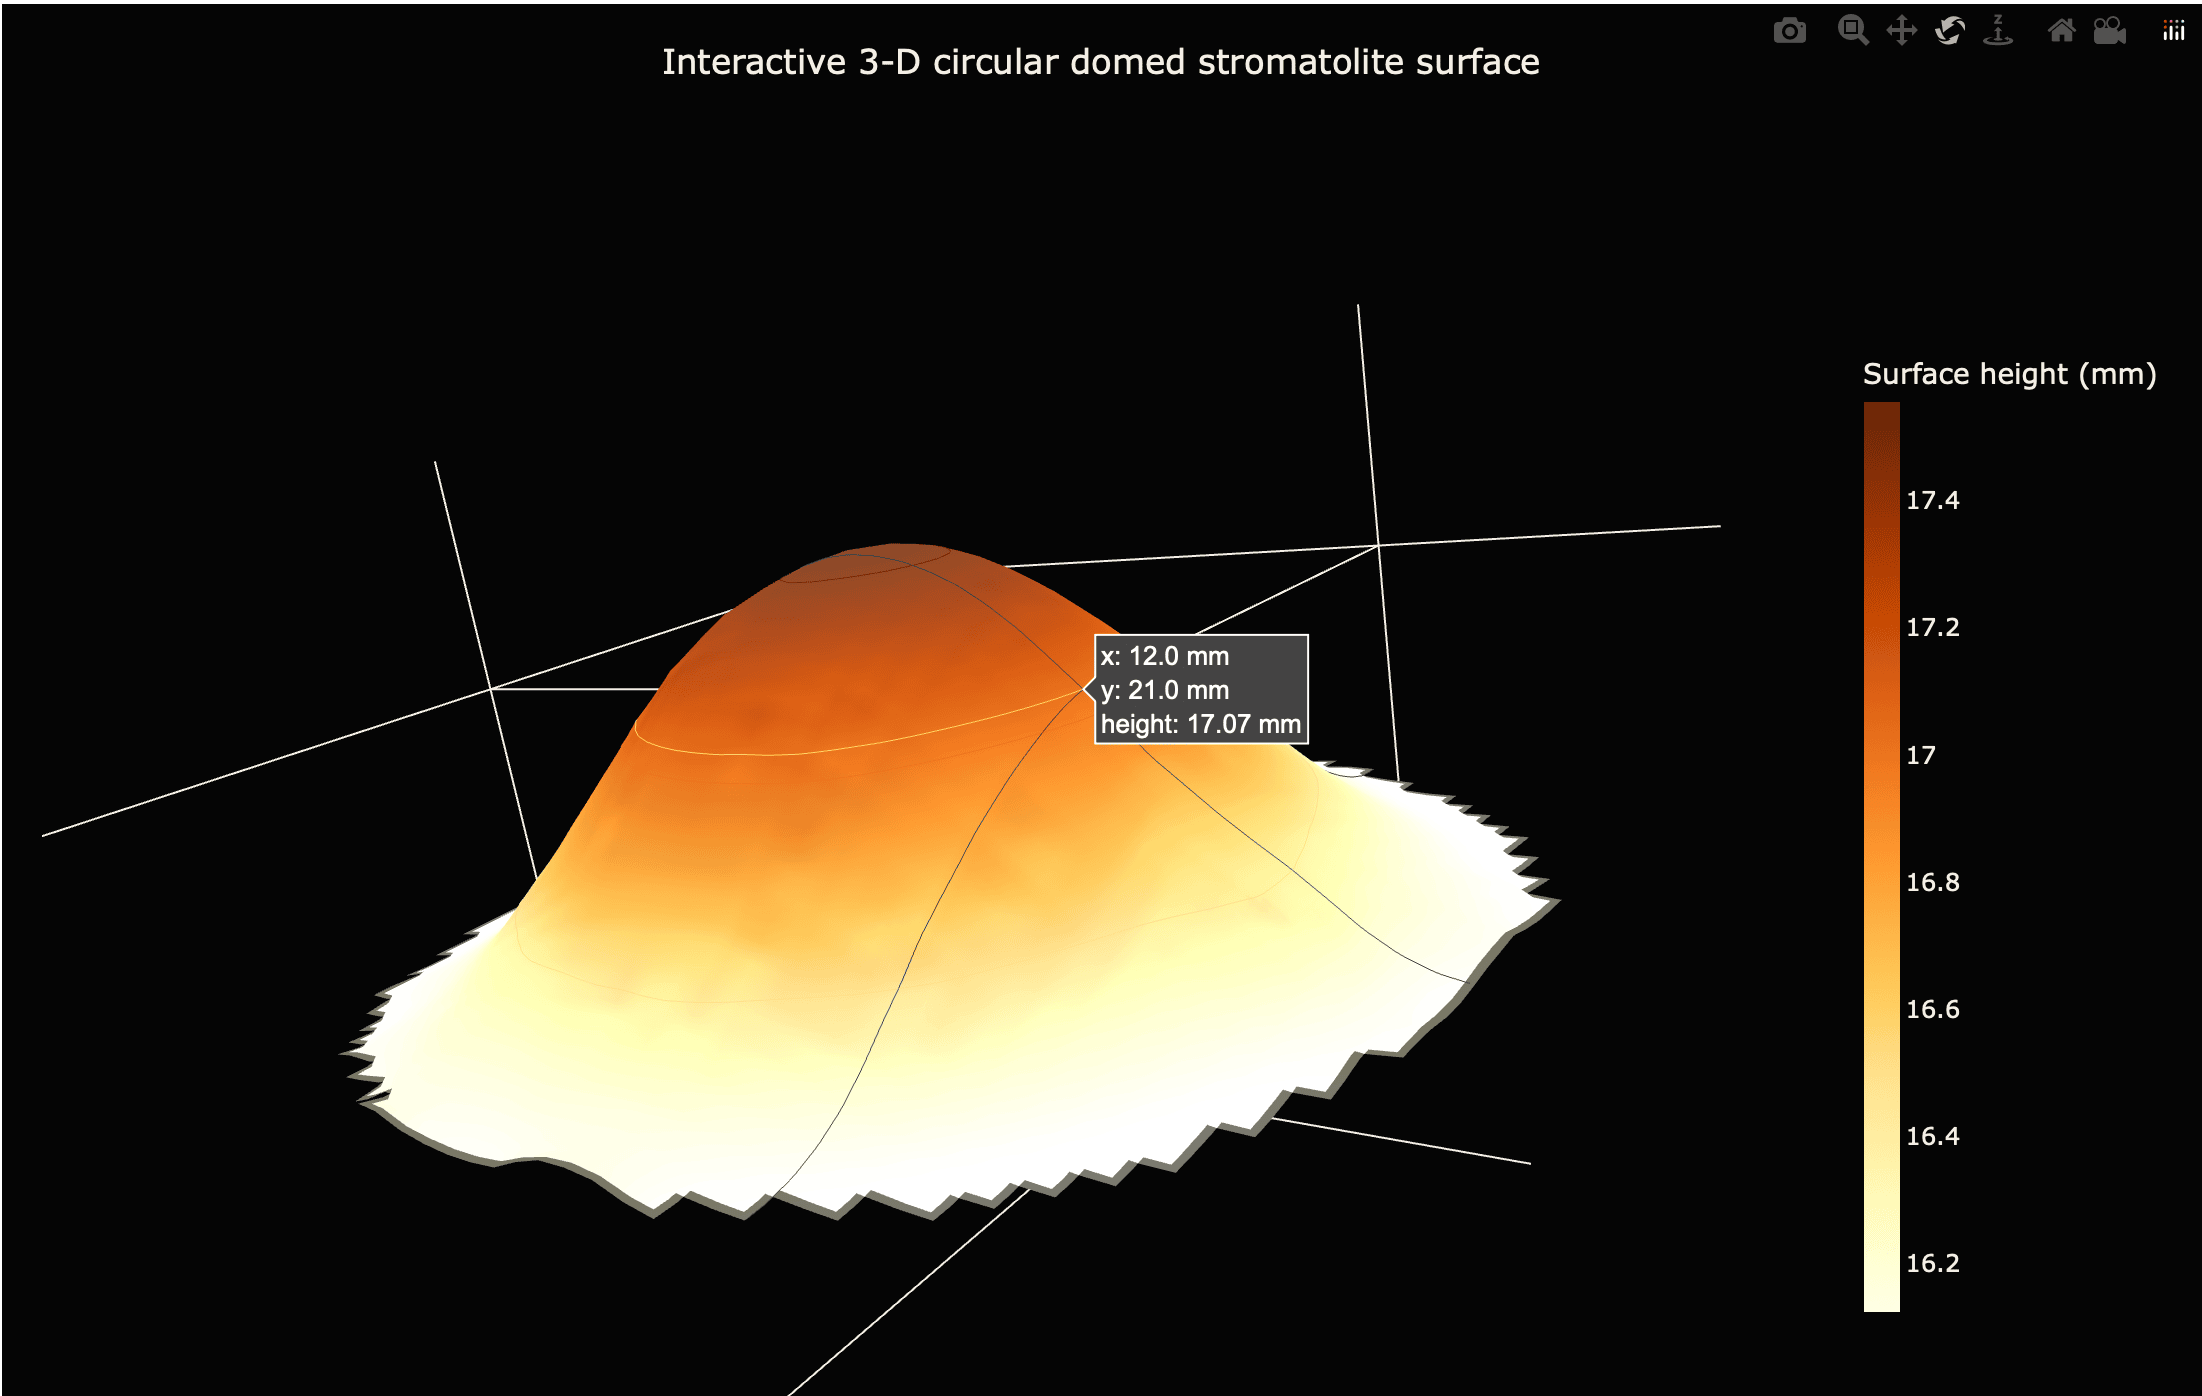
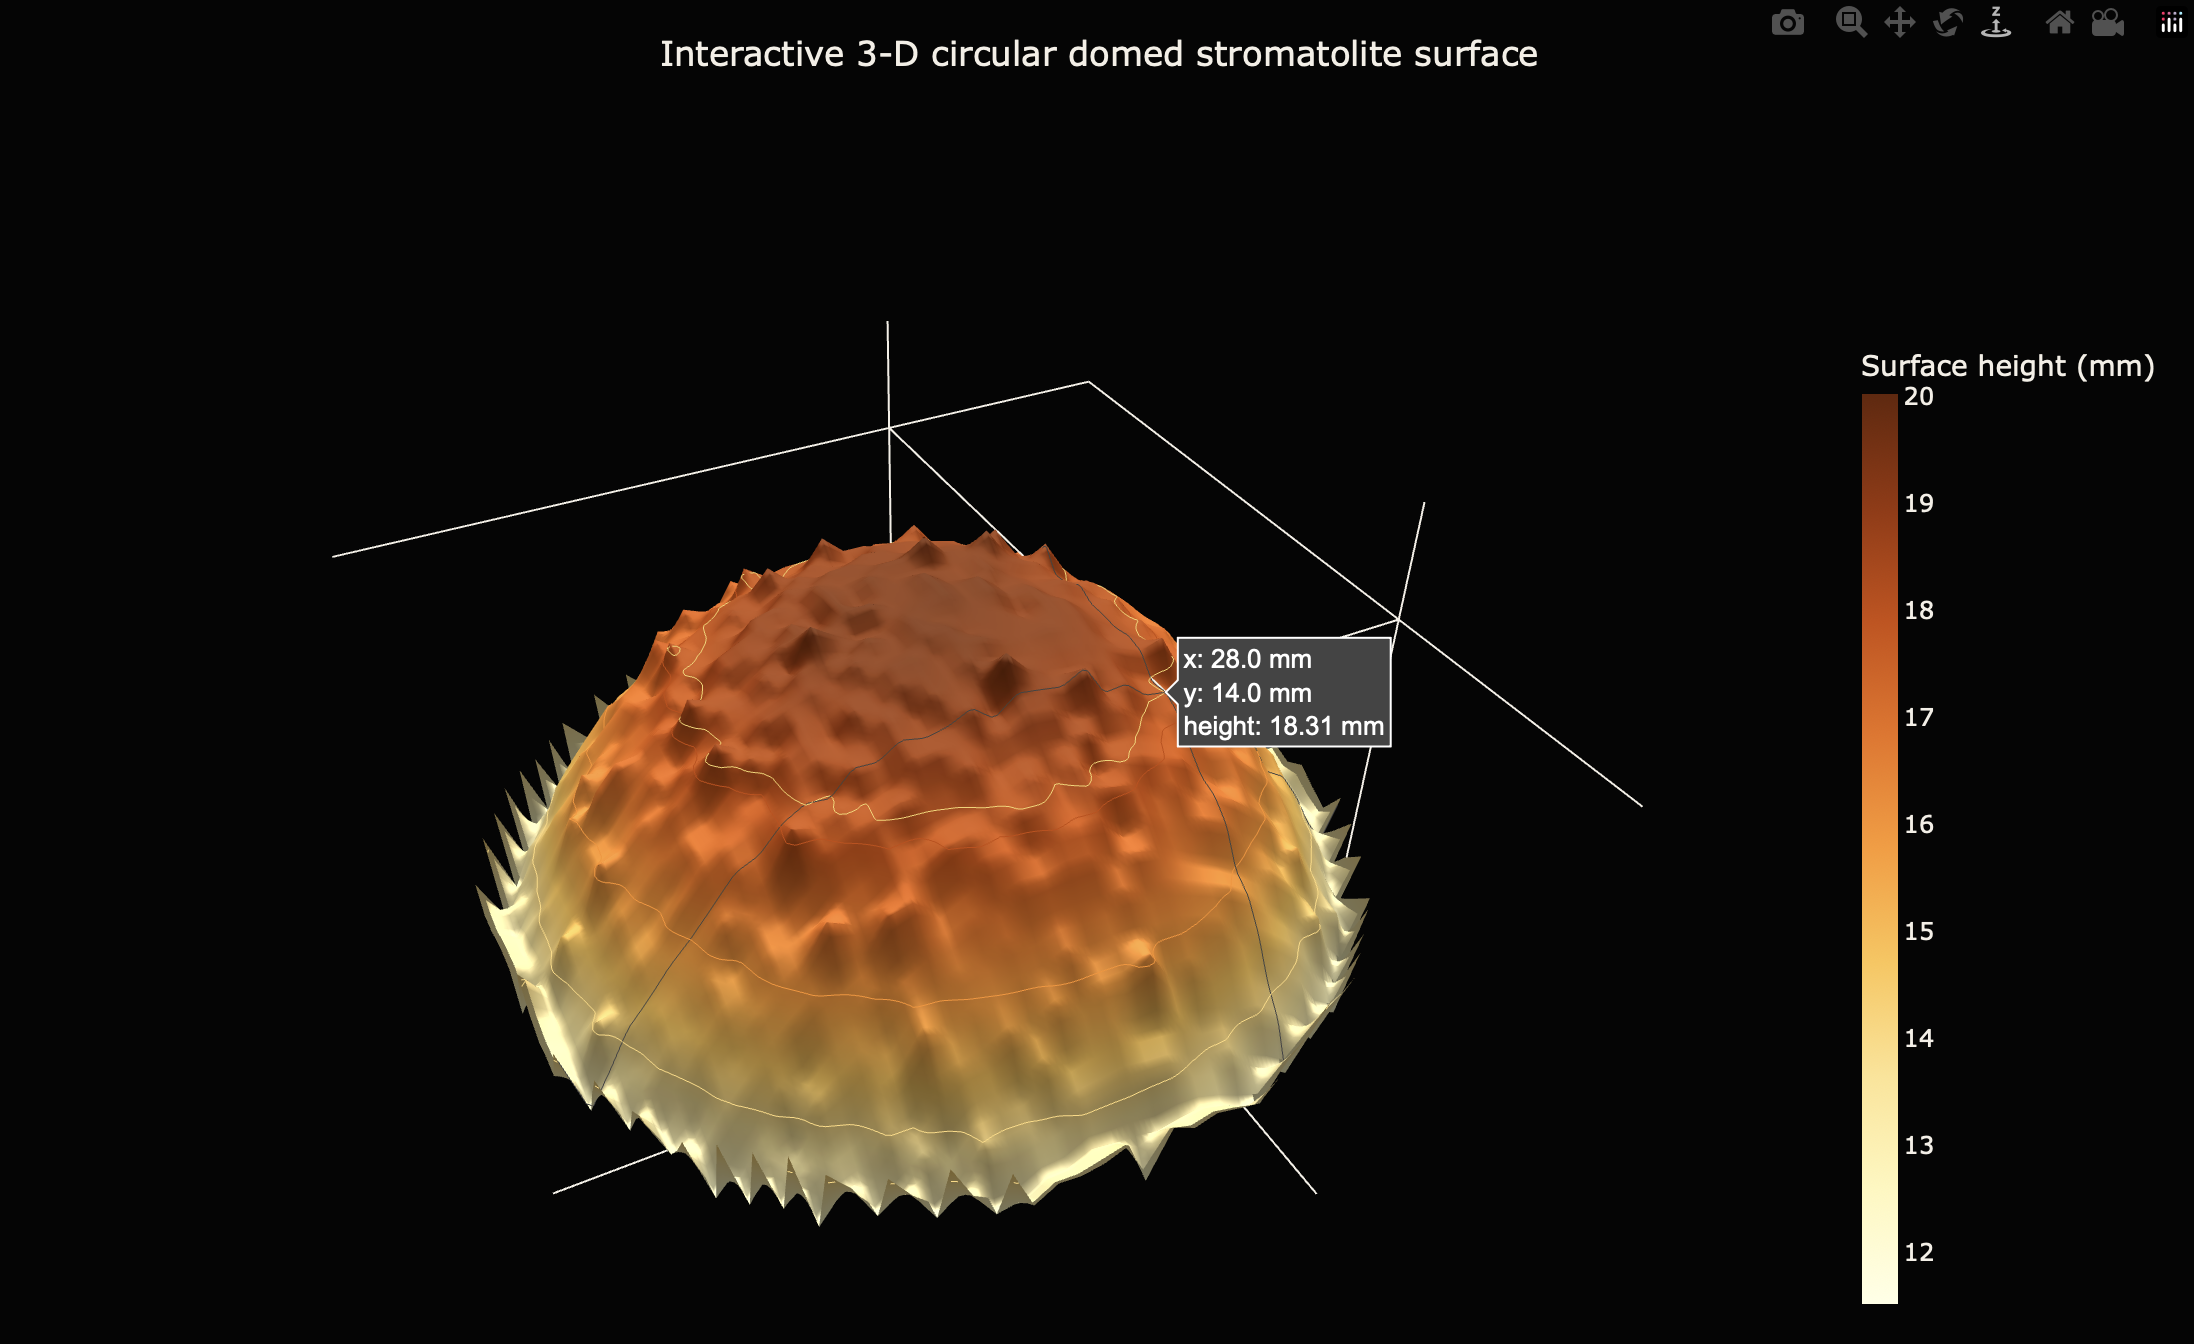
Added layer extraction and make interactive render use the extracted file

diff --git a/scripts/build-layer-surfaces.py b/scripts/build-layer-surfaces.py
@@ -1,0 +1,174 @@
+#!/usr/bin/env python
+"""Build compact browser-ready layer surfaces from stratigraphy NPZ output."""
+
+from __future__ import annotations
+
+import argparse
+from pathlib import Path
+
+import numpy as np
+
+
+def require_array(archive: np.lib.npyio.NpzFile, key: str, input_path: Path) -> np.ndarray:
+    """Return a required array or raise a clear format error."""
+    if key not in archive.files:
+        raise ValueError(f"{input_path} is missing required array: {key}")
+    return archive[key]
+
+
+def spatial_coordinates(spatial_shape: tuple[int, ...]) -> dict[str, np.ndarray]:
+    """Create index-based millimetre coordinates for the model grid."""
+    if len(spatial_shape) == 1:
+        return {"x_mm": np.arange(spatial_shape[0], dtype=np.float32)}
+    if len(spatial_shape) == 2:
+        y_size, x_size = spatial_shape
+        return {
+            "x_mm": np.arange(x_size, dtype=np.float32),
+            "y_mm": np.arange(y_size, dtype=np.float32),
+        }
+    raise ValueError(
+        "Only 2-D cross-section arrays (time, x) and 3-D surface arrays "
+        "(time, y, x) are supported."
+    )
+
+
+def layer_ids_from(layer_id: np.ndarray) -> np.ndarray:
+    """Return sorted non-negative layer IDs present in the stratigraphy archive."""
+    finite_layer_id = layer_id[np.isfinite(layer_id)] if np.issubdtype(layer_id.dtype, np.floating) else layer_id
+    unique_layer_ids = np.unique(finite_layer_id)
+    return unique_layer_ids[unique_layer_ids >= 0].astype(np.int16)
+
+
+def layer_step_bounds(layer_id: np.ndarray, layer_ids: np.ndarray) -> tuple[np.ndarray, np.ndarray]:
+    """Find the first and last timestep where each layer ID appears."""
+    start_steps = np.full(layer_ids.shape, -1, dtype=np.int32)
+    end_steps = np.full(layer_ids.shape, -1, dtype=np.int32)
+
+    for index, current_layer_id in enumerate(layer_ids):
+        timestep_matches = np.any(layer_id == current_layer_id, axis=tuple(range(1, layer_id.ndim)))
+        matching_steps = np.flatnonzero(timestep_matches)
+        if matching_steps.size:
+            start_steps[index] = int(matching_steps[0])
+            end_steps[index] = int(matching_steps[-1])
+
+    return start_steps, end_steps
+
+
+def build_layer_surfaces(input_path: Path) -> dict[str, np.ndarray]:
+    """Convert timestep stratigraphy into compact per-layer browser surfaces."""
+    with np.load(input_path) as archive:
+        deposition = require_array(archive, "deposition_increment_mm", input_path)
+        layer_id = require_array(archive, "layer_id", input_path)
+
+        if deposition.shape != layer_id.shape:
+            raise ValueError(
+                "deposition_increment_mm and layer_id must have the same shape; "
+                f"got {deposition.shape} and {layer_id.shape}."
+            )
+        if deposition.ndim not in (2, 3):
+            raise ValueError(
+                "Expected deposition_increment_mm shape (time, x) or (time, y, x); "
+                f"got {deposition.shape}."
+            )
+
+        spatial_shape = deposition.shape[1:]
+        layer_ids = layer_ids_from(layer_id)
+        if layer_ids.size == 0:
+            raise ValueError(f"{input_path} does not contain any non-negative layer IDs.")
+
+        if "active_mask" in archive.files:
+            active_mask = archive["active_mask"].astype(bool)
+            if active_mask.shape != spatial_shape:
+                raise ValueError(
+                    f"active_mask shape {active_mask.shape} does not match spatial shape {spatial_shape}."
+                )
+        else:
+            active_mask = np.ones(spatial_shape, dtype=bool)
+
+        if "initial_dome_height_mm" in archive.files:
+            base_height = archive["initial_dome_height_mm"].astype(np.float32)
+            if base_height.shape != spatial_shape:
+                raise ValueError(
+                    "initial_dome_height_mm shape "
+                    f"{base_height.shape} does not match spatial shape {spatial_shape}."
+                )
+        else:
+            base_height = np.zeros(spatial_shape, dtype=np.float32)
+
+        layer_thicknesses = []
+        cumulative_thicknesses = []
+        cumulative_thickness = np.zeros(spatial_shape, dtype=np.float32)
+
+        for current_layer_id in layer_ids:
+            layer_deposition = np.where(layer_id == current_layer_id, deposition, 0.0)
+            layer_thickness = np.sum(layer_deposition, axis=0, dtype=np.float32)
+            cumulative_thickness = cumulative_thickness + layer_thickness
+
+            layer_thickness = layer_thickness.astype(np.float32)
+            layer_thickness[~active_mask] = np.nan
+            cumulative_snapshot = cumulative_thickness.astype(np.float32).copy()
+            cumulative_snapshot[~active_mask] = np.nan
+
+            layer_thicknesses.append(layer_thickness)
+            cumulative_thicknesses.append(cumulative_snapshot)
+
+        layer_thickness_mm = np.stack(layer_thicknesses).astype(np.float32)
+        growth_thickness_mm = np.stack(cumulative_thicknesses).astype(np.float32)
+        height_mm = growth_thickness_mm + base_height.astype(np.float32)
+        height_mm[:, ~active_mask] = np.nan
+
+        start_steps, end_steps = layer_step_bounds(layer_id, layer_ids)
+
+        output = {
+            **spatial_coordinates(spatial_shape),
+            "layer_ids": layer_ids,
+            "layer_start_step": start_steps,
+            "layer_end_step": end_steps,
+            "active_mask": active_mask,
+            "base_height_mm": base_height,
+            "height_mm": height_mm,
+            "growth_thickness_mm": growth_thickness_mm,
+            "layer_thickness_mm": layer_thickness_mm,
+        }
+
+        if "initial_dome_height_mm" in archive.files:
+            output["initial_dome_height_mm"] = base_height
+
+        return output
+
+
+def parse_args() -> argparse.Namespace:
+    parser = argparse.ArgumentParser(
+        description="Convert stratigraphy NPZ output into compact browser-ready layer surfaces."
+    )
+    parser.add_argument(
+        "-i",
+        "--input",
+        type=Path,
+        required=True,
+        help="Existing stratigraphy NPZ file to convert.",
+    )
+    parser.add_argument(
+        "-o",
+        "--output",
+        type=Path,
+        required=True,
+        help="Browser-ready layer surface NPZ file to write.",
+    )
+    return parser.parse_args()
+
+
+def main() -> None:
+    args = parse_args()
+    layer_surfaces = build_layer_surfaces(args.input)
+
+    args.output.parent.mkdir(parents=True, exist_ok=True)
+    np.savez_compressed(args.output, **layer_surfaces)
+
+    layer_count = len(layer_surfaces["layer_ids"])
+    spatial_shape = layer_surfaces["active_mask"].shape
+    print(f"Saved {layer_count} layer surface(s) with grid shape {spatial_shape} to {args.output}")
+
+
+if __name__ == "__main__":
+    main()

diff --git a/scripts/render-interactive-dome.py b/scripts/render-interactive-dome.py
@@ -11,47 +11,61 @@ import plotly.graph_objects as go
 
 
 PROJECT_ROOT = Path(__file__).resolve().parents[1]
-DEFAULT_INPUT = PROJECT_ROOT / "data" / "output" / "3d-circular-domed-final-surface.csv"
-DEFAULT_OUTPUT = PROJECT_ROOT / "data" / "output" / "3d-circular-domed-interactive-surface.html"
+DEFAULT_INPUT = PROJECT_ROOT / "data" / "output" / "3d-circular-domed-layer-surfaces.npz"
+
+
+def require_array(archive: np.lib.npyio.NpzFile, key: str, input_path: Path) -> np.ndarray:
+    """Return a required NPZ array or raise a clear format error."""
+    if key not in archive.files:
+        raise ValueError(f"{input_path} is missing required array: {key}")
+    return archive[key]
 
 
 def load_surface_grid(input_path: Path) -> tuple[np.ndarray, np.ndarray, np.ndarray]:
-    """Load the saved final surface CSV and reshape it into Plotly grids."""
-    table = np.genfromtxt(input_path, delimiter=",", names=True)
+    """Load the final surface from a browser-ready layer surface NPZ."""
+    with np.load(input_path) as archive:
+        height = require_array(archive, "height_mm", input_path)
 
-    # The renderer is intentionally tied to the saved model output, so fail early
-    # if the CSV no longer has the coordinates, mask and height field it needs.
-    required_columns = {"x_mm", "y_mm", "active", "height_mm"}
-    missing_columns = required_columns.difference(table.dtype.names or ())
-    if missing_columns:
-        missing = ", ".join(sorted(missing_columns))
-        raise ValueError(f"{input_path} is missing required column(s): {missing}")
+        if height.ndim == 3:
+            z_grid = height[-1].astype(np.float32)
+        elif height.ndim == 2:
+            z_grid = height.astype(np.float32)
+        else:
+            raise ValueError(
+                f"{input_path} height_mm must have shape (layers, y, x) or (y, x); "
+                f"got {height.shape}."
+            )
 
-    # Plotly surfaces expect regular 2-D grids. The model output is stored as one
-    # row per grid cell, so rebuild the x/y/z arrays from the coordinate columns.
-    x_values = np.unique(table["x_mm"])
-    y_values = np.unique(table["y_mm"])
-    expected_cells = len(x_values) * len(y_values)
-    if len(table) != expected_cells:
-        raise ValueError(
-            f"{input_path} does not form a complete rectangular grid: "
-            f"found {len(table)} cells, expected {expected_cells}"
+        y_size, x_size = z_grid.shape
+        x_values = (
+            archive["x_mm"].astype(np.float32)
+            if "x_mm" in archive.files
+            else np.arange(x_size, dtype=np.float32)
+        )
+        y_values = (
+            archive["y_mm"].astype(np.float32)
+            if "y_mm" in archive.files
+            else np.arange(y_size, dtype=np.float32)
         )
 
-    x_index = {value: index for index, value in enumerate(x_values)}
-    y_index = {value: index for index, value in enumerate(y_values)}
-    z_grid = np.full((len(y_values), len(x_values)), np.nan)
+        if x_values.shape != (x_size,):
+            raise ValueError(
+                f"{input_path} x_mm shape {x_values.shape} does not match surface width {x_size}."
+            )
+        if y_values.shape != (y_size,):
+            raise ValueError(
+                f"{input_path} y_mm shape {y_values.shape} does not match surface height {y_size}."
+            )
 
-    for row in table:
-        x = row["x_mm"]
-        y = row["y_mm"]
-        height = row["height_mm"]
-        active = row["active"] > 0.5
-
-        # Keep inactive cells as NaN so Plotly leaves the area outside the
-        # circular stromatolite mask transparent instead of drawing a base plane.
-        if active and np.isfinite(height):
-            z_grid[y_index[y], x_index[x]] = height
+        if "active_mask" in archive.files:
+            active_mask = archive["active_mask"].astype(bool)
+            if active_mask.shape != z_grid.shape:
+                raise ValueError(
+                    f"{input_path} active_mask shape {active_mask.shape} "
+                    f"does not match surface shape {z_grid.shape}."
+                )
+            z_grid = z_grid.copy()
+            z_grid[~active_mask] = np.nan
 
     x_grid, y_grid = np.meshgrid(x_values, y_values)
     return x_grid, y_grid, z_grid
@@ -171,49 +185,30 @@ def build_figure(
 
 
 def parse_args() -> argparse.Namespace:
-    parser = argparse.ArgumentParser(
-        description="Render the saved domed stromatolite final surface as interactive Plotly HTML."
-    )
-    parser.add_argument(
-        "-i",
-        "--input",
-        type=Path,
-        default=DEFAULT_INPUT,
-        help=f"Final surface CSV to render. Defaults to {DEFAULT_INPUT.relative_to(PROJECT_ROOT)}.",
-    )
-    parser.add_argument(
-        "-o",
-        "--output",
-        type=Path,
-        default=DEFAULT_OUTPUT,
-        help=f"HTML file to write. Defaults to {DEFAULT_OUTPUT.relative_to(PROJECT_ROOT)}.",
-    )
-    parser.add_argument(
-        "-c",
-        "--clean-axes",
-        action="store_true",
-        help="Hide axes, ticks and grid lines for publication-style presentation.",
-    )
-    parser.add_argument(
-        "-d",
-        "--dark-mode",
-        action="store_true",
-        help="Use a black background with light axis and colorbar text.",
-    )
+    parser = argparse.ArgumentParser()
+    parser.add_argument("-i", "--input", type=Path, default=DEFAULT_INPUT,
+                        help="Layer surface NPZ to render")
+    parser.add_argument("-o", "--output", type=Path, default=None,
+                        help="HTML file to write; defaults to input path with .html suffix")
+    parser.add_argument("-c", "--clean-axes", action="store_true",
+                        help="Hide axes, ticks and grid lines for publication-style presentation")
+    parser.add_argument("-d", "--dark-mode", action="store_true",
+                        help="Use a black background with light axis and colorbar text")
     return parser.parse_args()
 
 
 def main() -> None:
     args = parse_args()
+    output_path = args.output if args.output is not None else args.input.with_suffix(".html")
 
     x_grid, y_grid, z_grid = load_surface_grid(args.input)
     fig = build_figure(x_grid, y_grid, z_grid, clean_axes=args.clean_axes, dark_mode=args.dark_mode)
-    args.output.parent.mkdir(parents=True, exist_ok=True)
+    output_path.parent.mkdir(parents=True, exist_ok=True)
 
     # Embed Plotly in the file so the render can be opened directly or published
     # as a standalone HTML artefact.
-    fig.write_html(args.output, include_plotlyjs=True, full_html=True)
-    print(f"Saved interactive dome render to {args.output}")
+    fig.write_html(output_path, include_plotlyjs=True, full_html=True)
+    print(f"Saved interactive dome render to {output_path}")
 
 
 if __name__ == "__main__":